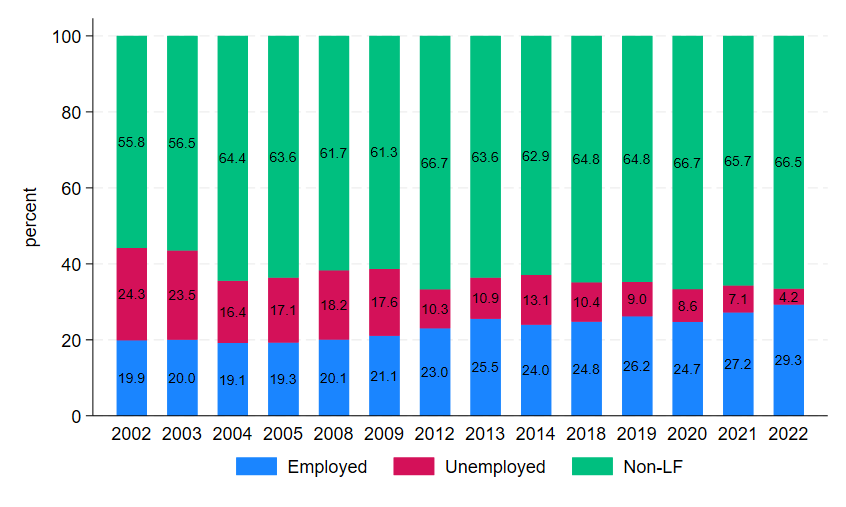
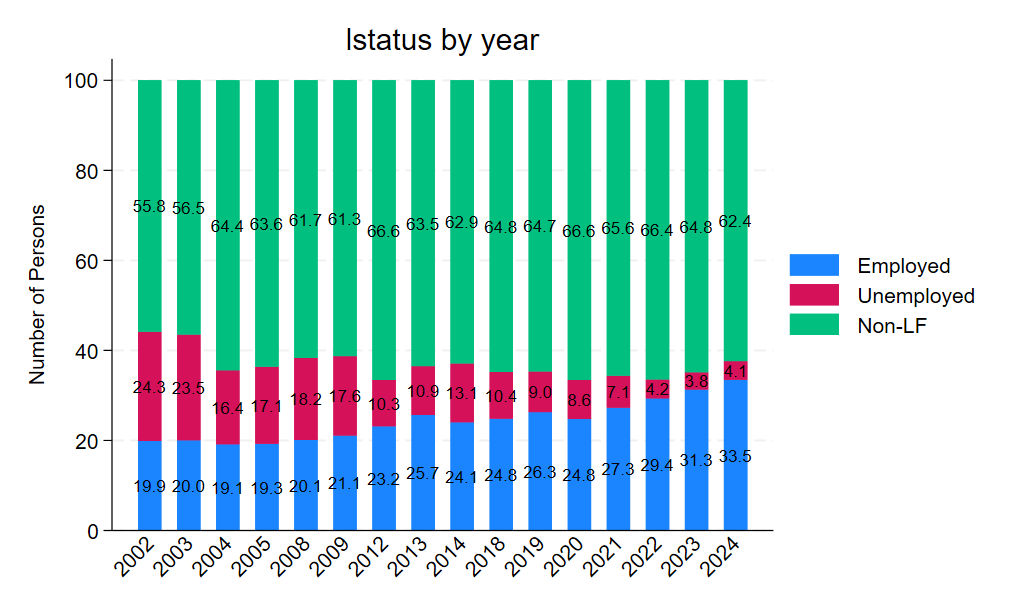
add 2023/4 and update CSD

diff --git a/Support/B - Country Survey Details/XKX/LFS/1. Introduction to Kosovo Labor Force Survey.md b/Support/B - Country Survey Details/XKX/LFS/1. Introduction to Kosovo Labor Force Survey.md
@@ -18,20 +18,23 @@ The harmonized years and sample sizes available for the GLD are as follows:
 
 | Year | Individuals | Households | Weighted Population | Population (WDI) |
 |------|-------------|------------|---------------------|------------------|
-| 2002 | 19,361      | Cannot be determined     | 1.839842            | 1.829462         |
-| 2003 | 19,510      | 3,167      | 1.895078            | 1.826434         |
-| 2004 | 19,904      | 3,192      | 1.810127            | 1.822773         |
-| 2005 | 19,590      | 3,200      | 1.601155            | 1.818354         |
-| 2008 | 24,470      | 4,000      | 1.795878            | 1.800858         |
-| 2009 | 23,523      | 3,849      | 1.681076            | 1.794681         |
-| 2012 | 56,762      | 9,682      | 1.807126            | 1.807126         |
-| 2013 | 82,898      | 14,262     | 1.811372            | 1.818119         |
-| 2014 | 87,617      | 15,265     | 1.811521            | 1.812788         |
-| 2018 | 67,482      | 13,918     | 1.793467            | 1.797086         |
-| 2019 | 76,683      | 15,406     | 1.796376            | 1.788891         |
-| 2020 | 80,423      | 16,552     | 1.795666            | 1.790151         |
-| 2021 | 71,084      | 14,901     | 1.798188            | 1.786079         |
-| 2022 | 58,583      | 12,414     | 1.773971            | 1.768096         |
+| 2002 | 19,361      | Cannot be determined | 1,839,842 | 1,829,462 |
+| 2003 | 19,510      | 3,167      | 1,895,078 | 1,826,434 |
+| 2004 | 19,904      | 3,192      | 1,810,127 | 1,822,773 |
+| 2005 | 19,590      | 3,200      | 1,601,155 | 1,818,354 |
+| 2008 | 24,470      | 4,000      | 1,795,878 | 1,800,858 |
+| 2009 | 23,523      | 3,849      | 1,681,076 | 1,794,681 |
+| 2012 | 56,762      | 9,682      | 1,807,126 | 1,807,126 |
+| 2013 | 82,898      | 14,262     | 1,811,372 | 1,818,119 |
+| 2014 | 87,617      | 15,265     | 1,811,521 | 1,812,788 |
+| 2018 | 67,482      | 13,918     | 1,793,467 | 1,797,086 |
+| 2019 | 76,683      | 15,406     | 1,796,376 | 1,788,891 |
+| 2020 | 80,423      | 16,552     | 1,795,666 | 1,790,151 |
+| 2021 | 71,084      | 14,901     | 1,798,188 | 1,786,079 |
+| 2022 | 58,583      | 12,414     | 1,773,971 | 1,768,096 |
+| 2023 | 59,412      | 12,665     | 1,762,220 | 1,756,374 |
+| 2023 | 62,897      | 13,874     | 1,602,515 | Not available |
+
 
 
 
@@ -49,10 +52,10 @@ The Kosovo LFS provides statistically representative estimates at the **national
 
 While the LFS design is nationally representative and stratified by region and urban–rural areas, the microdata received for harmonization do not consistently include the regional variable across survey years. The availability of region and urban variables are summarized in the table below:
 
-| Variable | 2002 | 2003 | 2004 | 2005 | 2008 | 2009 | 2012 | 2013 | 2014 | 2018 | 2019 | 2020 | 2021 | 2022 |
-|-----------|------|------|------|------|------|------|------|------|------|------|------|------|------|------|
-| Region (subnatid1) | ❌ | ❌ | ✅ | ✅ | ✅ | ✅ | ✅ | ✅ | ✅ | ❌ | ❌ | ❌ | ❌ | ✅ |
-| Urban | ✅ | ❌ | ✅ | ✅ | ✅ | ✅ | ✅ | ✅ | ✅ | ❌ | ❌ | ❌ | ❌ | ❌ |
+| Variable | 2002 | 2003 | 2004 | 2005 | 2008 | 2009 | 2012 | 2013 | 2014 | 2018 | 2019 | 2020 | 2021 | 2022 | 2023 | 2024 |
+|-----------|------|------|------|------|------|------|------|------|------|------|------|------|------|------|------|------|
+| Region (subnatid1) | ❌ | ❌ | ✅ | ✅ | ✅ | ✅ | ✅ | ✅ | ✅ | ❌ | ❌ | ❌ | ❌ | ✅ | ❌ | ❌ |
+| Urban | ✅ | ❌ | ✅ | ✅ | ✅ | ✅ | ✅ | ✅ | ✅ | ❌ | ❌ | ❌ | ❌ | ❌ | ❌ | ❌ |
 
 
 ## Other noteworthy aspects  
@@ -97,6 +100,6 @@ Annual weights are applied in the harmonized data. While the survey shifted from
 | Years       | Classification used in survey |
 |-------------|-------------------------------|
 | 2002–2014   | ISCO 1988  |
-| 2008 onwards| ISCO 2008  |
+| 2018 onwards| ISCO 2008  |
 
 
